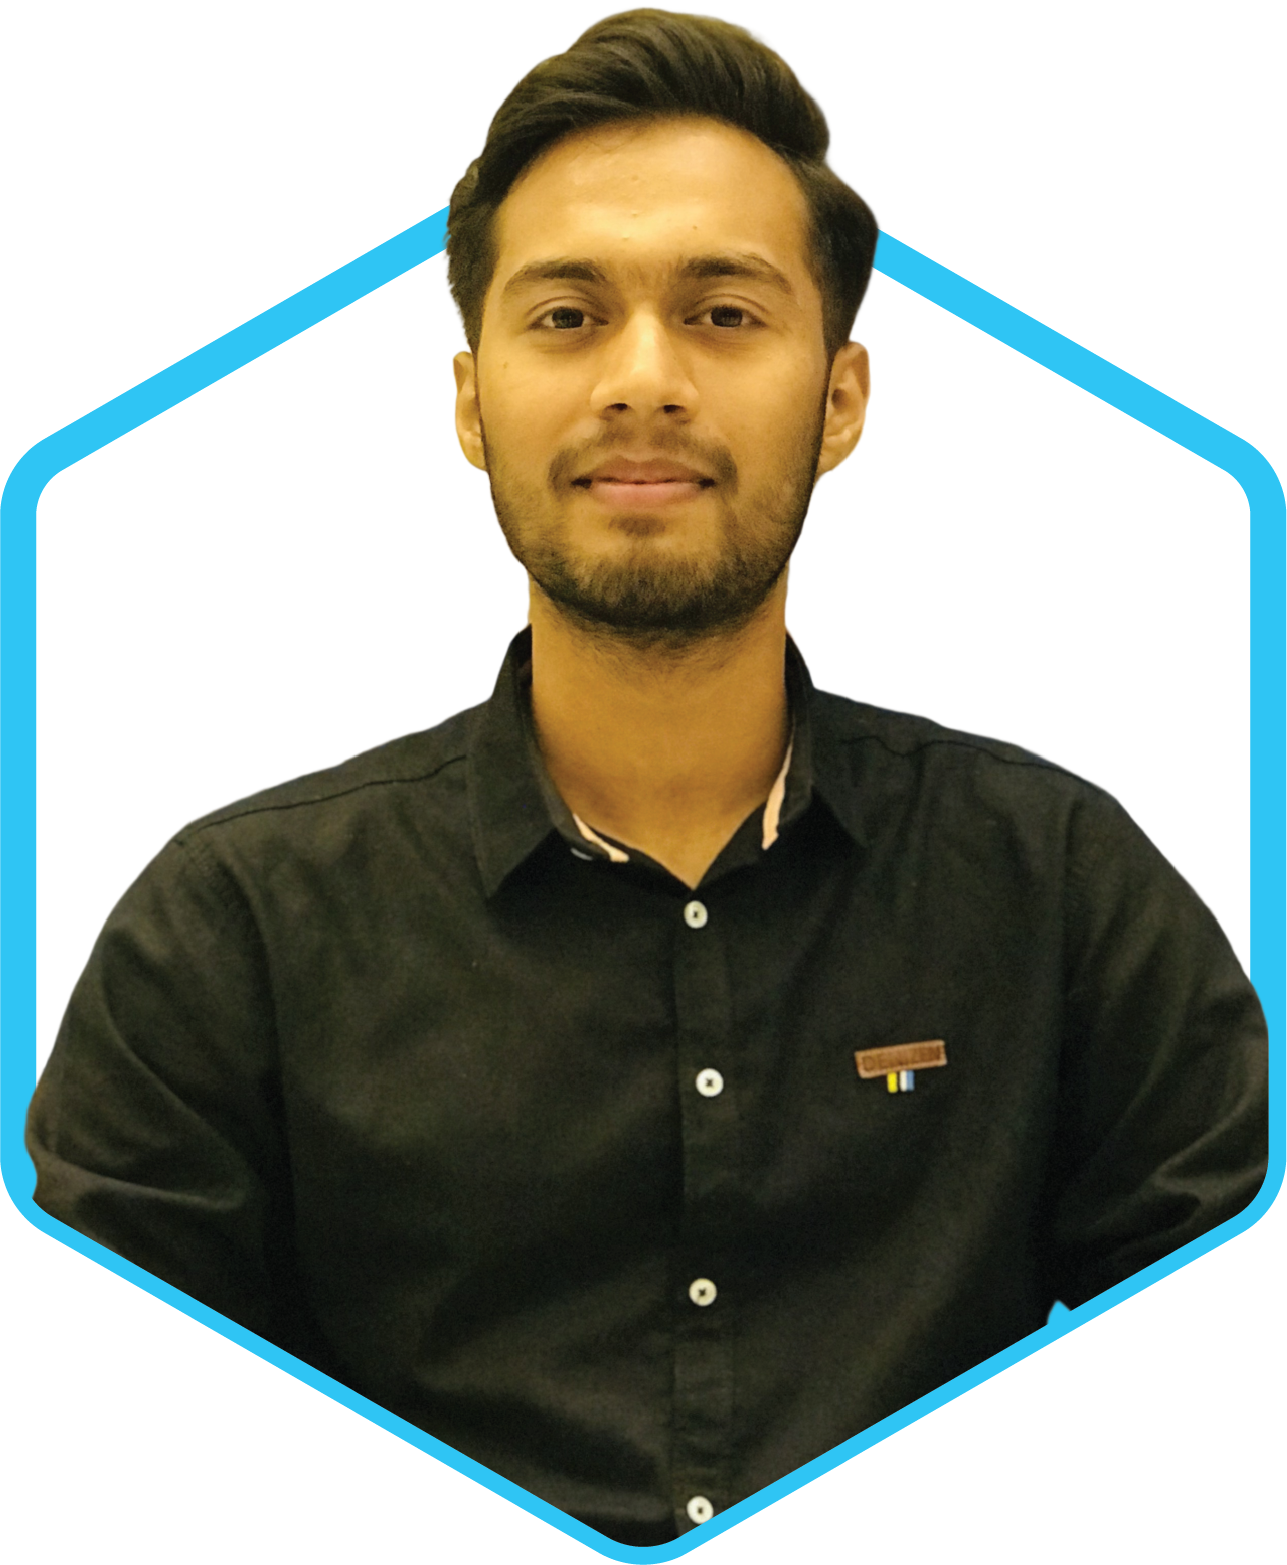
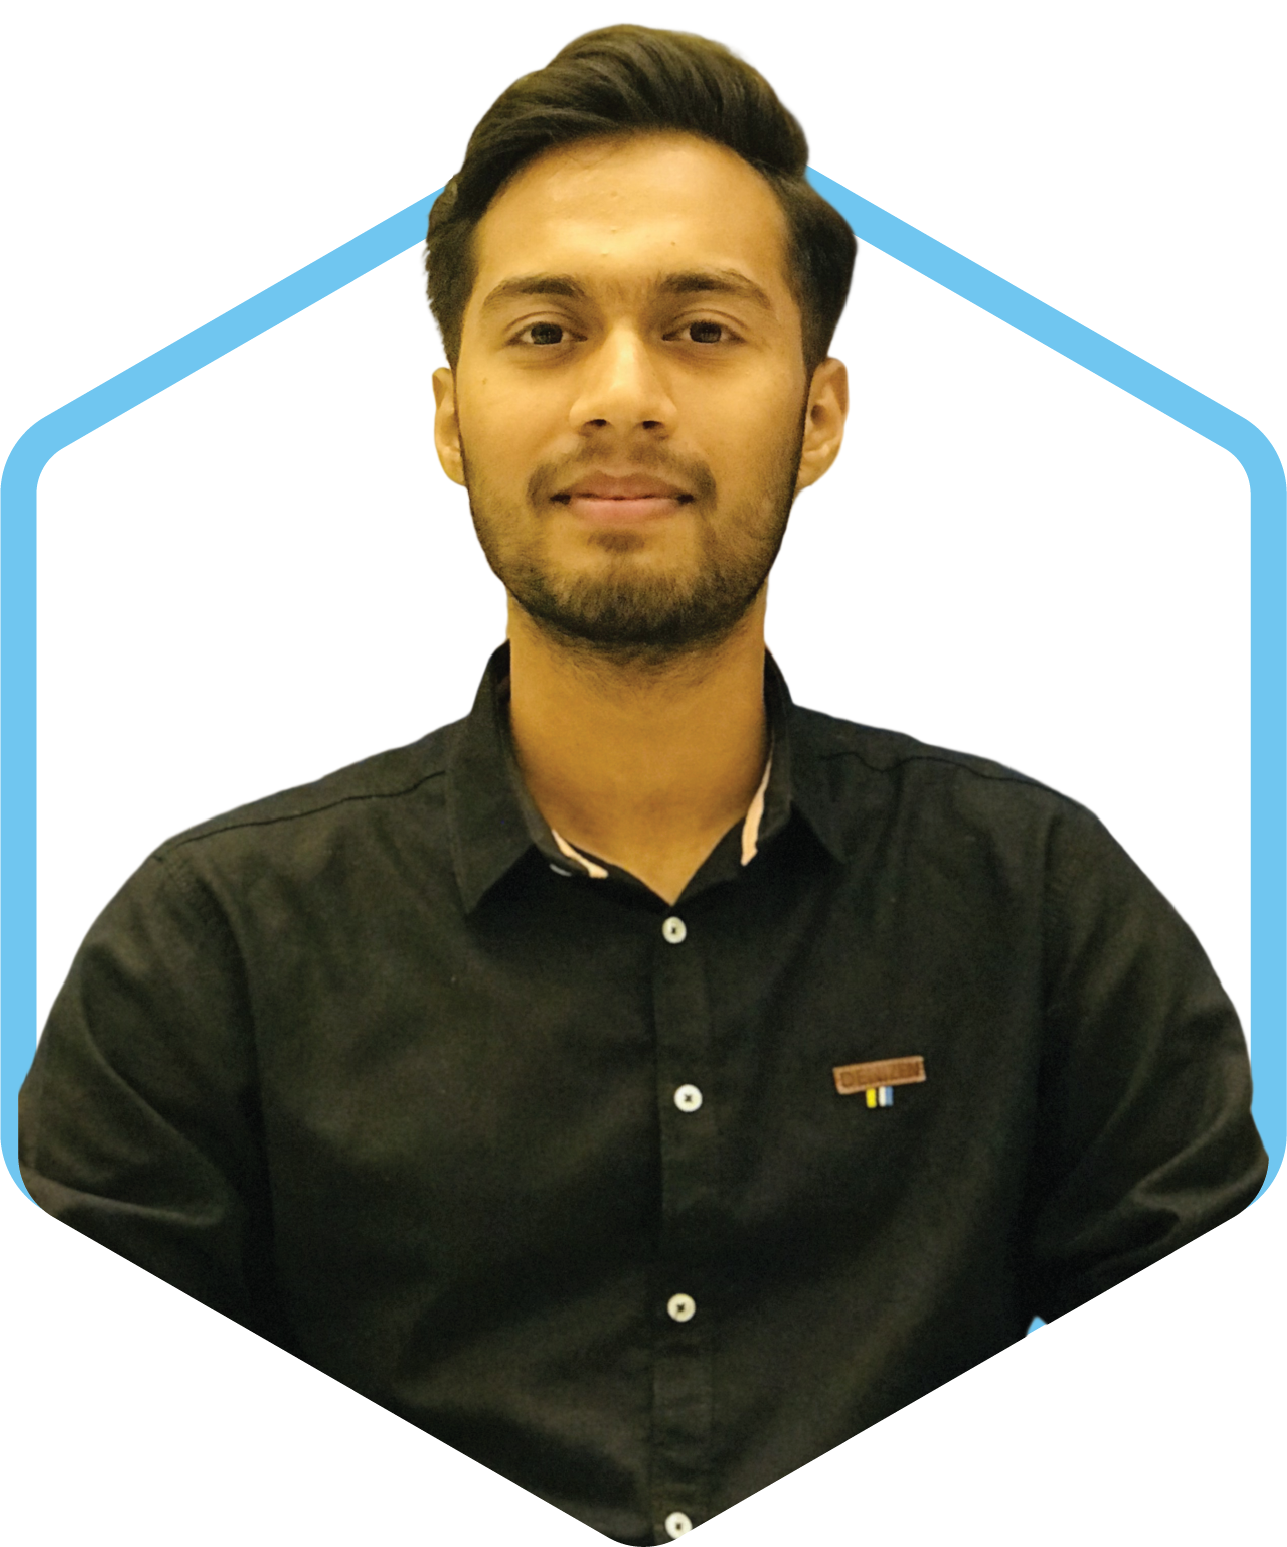
about section commit

diff --git a/index.html b/index.html
@@ -50,6 +50,23 @@
         </div>
     </section>
 
+    <!-- about section design -->
+    <section class="about" id="about">
+        <div class="about-img">
+            <img src="img/about.png" alt="my-img">
+        </div>
+
+        <div class="about-content">
+            <h2 class="heading">About <span>Me</span></h2>
+            <h3>Frontend Developer</h3>
+            <p>Lorem ipsum dolor sit amet consectetur adipisicing elit. Quas ab, minima odit laboriosam esse impedit
+                maxime aspernatur et hic nostrum? Sequi error odio repudiandae, exercitationem ut quas voluptatem?
+                Excepturi ex ipsam quae quos deserunt aspernatur possimus voluptate deleniti. Voluptatum doloribus
+                commodi reprehenderit assumenda modi error maxime sapiente dolor? A, debitis..</p>
+                <a href="#" class="btn">Read More</a>
+        </div>
+    </section>
+    
 </body>
 
 </html>

diff --git a/css/style.css b/css/style.css
@@ -142,3 +142,34 @@ span {
 .btn:hover {
     box-shadow: none;
 }
+
+.about {
+    display: flex;
+    justify-content: center;
+    align-items: center;
+    gap: 6rem;
+    background: var(--second--bg-color);
+}
+
+.about-img img {
+    width: 30vw;
+}
+
+.heading {
+    text-align: center;
+    font-size: 4.5rem;
+}
+
+.about-content h2 {
+    text-align: left;
+    line-height: 1.2;
+}
+
+.about-content h3 {
+    font-size: 2.6rem;
+}
+
+.about-content p {
+    font-size: 1.6rem;
+    margin: 2rem 0 3rem;
+}
